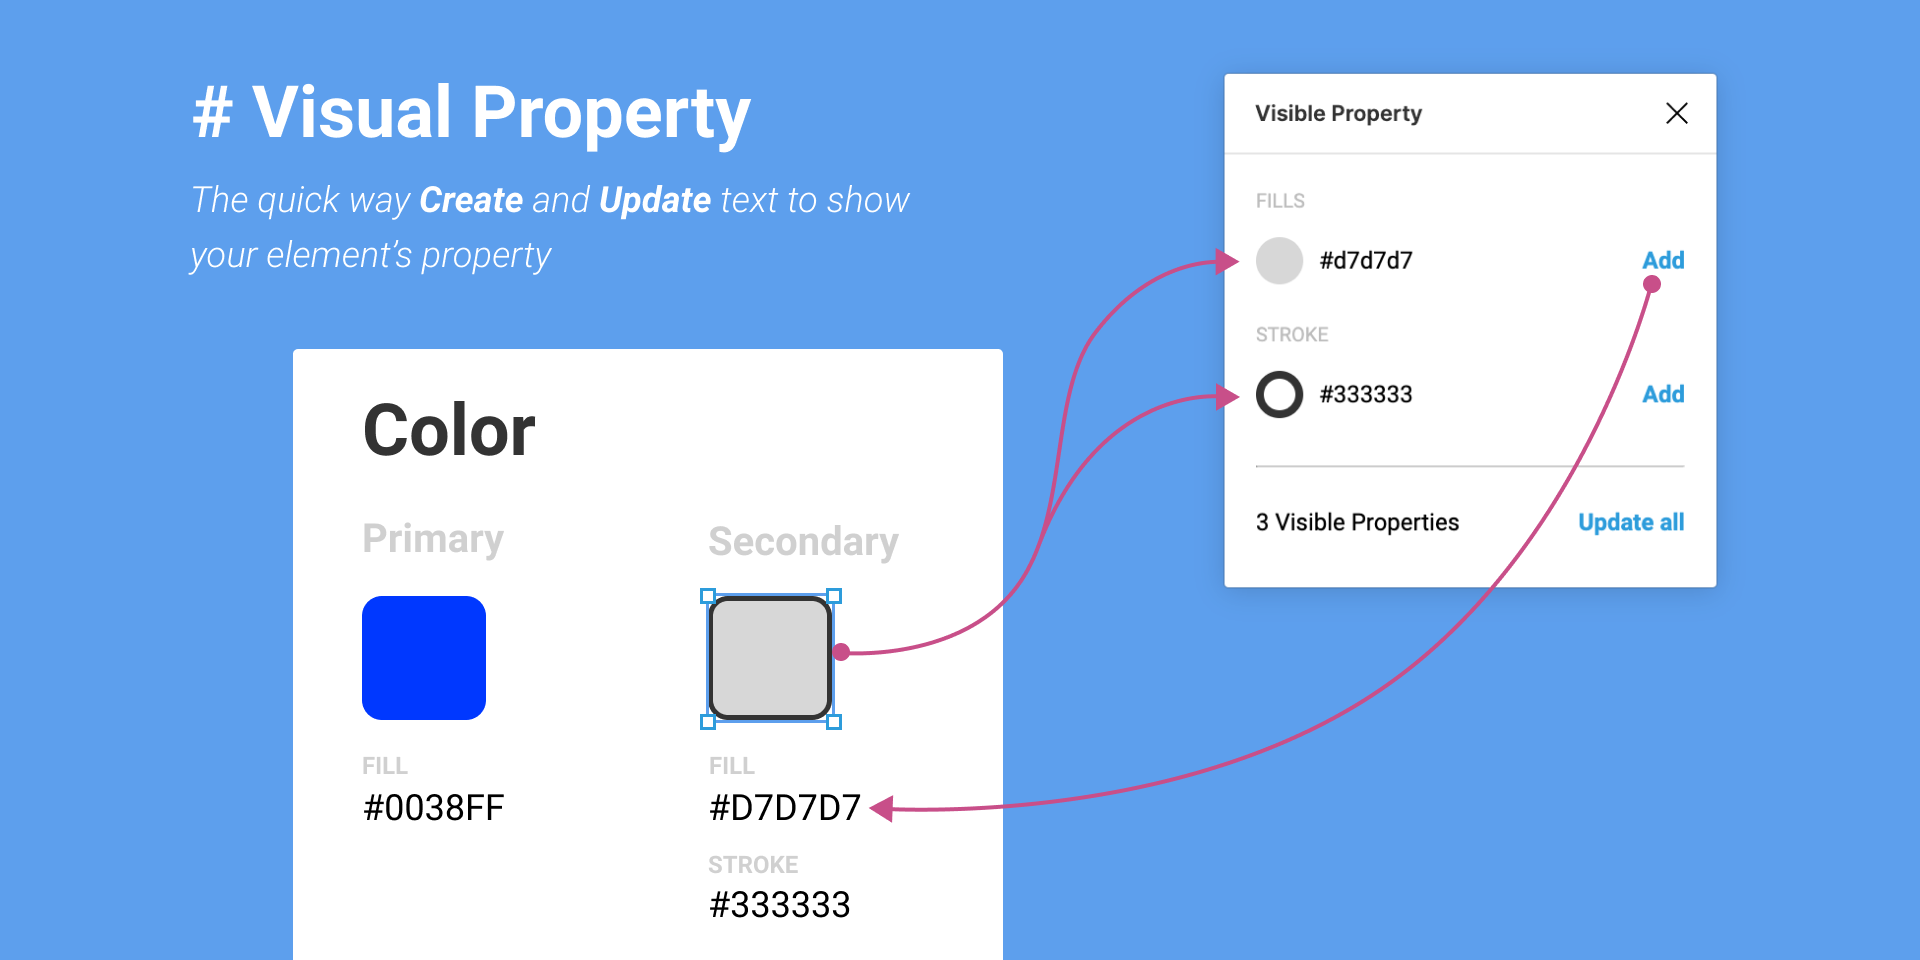
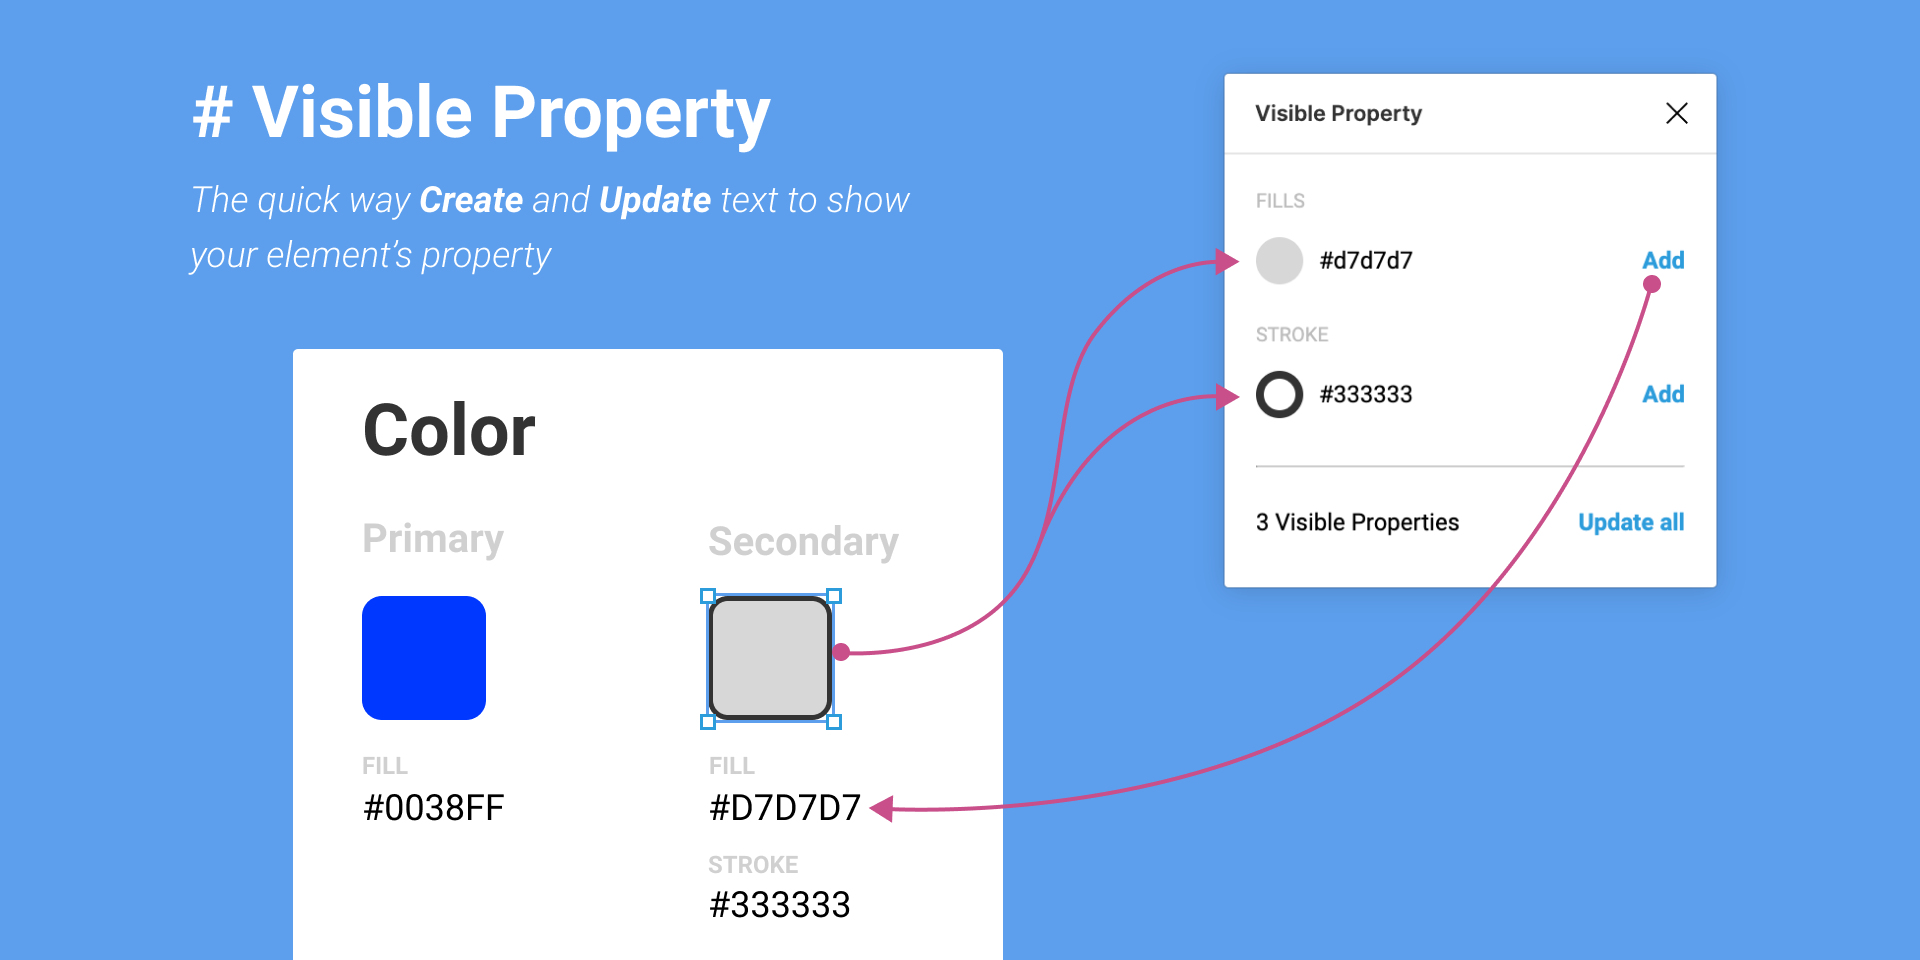
edit wrong word in picture

Changed region(s): [[0.1875, 0.0625, 0.4062, 0.1562]]

diff --git a/code.ts b/code.ts
@@ -15,11 +15,11 @@ function firstSelectedNode():RectangleNode {
 function colorNumberToHex(color:number):string {
   var hex = Math.round(color * 255).toString(16);
   return hex.length == 1 ? "0" + hex : hex;
-};
+}
 
 function rgbToHex(r:number, g:number, b:number):string {
   return "#" + colorNumberToHex(r) + colorNumberToHex(g) + colorNumberToHex(b)
-};
+}
 
 function colorToHex(color:any):string{
   return rgbToHex(color["r"], color["g"], color["b"]);
@@ -45,6 +45,24 @@ async function addTextNearSelected(text:string, name:string){
   node.parent.appendChild(textNode);
 }
 
+function getColorByType(nodeId:string, type:string):string {
+  let selectedNode = <RectangleNode> figma.getNodeById(nodeId); 
+  if(selectedNode) {
+    if(selectedNode[type][0]) {
+      const hexColor:string = colorToHex(selectedNode[type][0]["color"]);
+      return hexColor.toUpperCase();
+    }
+  }
+}
+
+function getFillsColor(nodeId:string):string {
+  return getColorByType(nodeId, "fills");
+}
+
+function getStrokesColor(nodeId:string):string {
+  return getColorByType(nodeId, "strokes");
+}
+
 function updateUI():void {
   let message = {};
 
@@ -67,24 +85,6 @@ function updateUI():void {
   }
   
   figma.ui.postMessage(message);
-}
-
-function getColorByType(nodeId:string, type:string):string {
-  let selectedNode = <RectangleNode> figma.getNodeById(nodeId); 
-  if(selectedNode) {
-    if(selectedNode[type][0]) {
-      const hexColor:string = colorToHex(selectedNode[type][0]["color"]);
-      return hexColor.toUpperCase();
-    }
-  }
-}
-
-function getFillsColor(nodeId:string):string {
-  return getColorByType(nodeId, "fills");
-}
-
-function getStrokesColor(nodeId:string):string {
-  return getColorByType(nodeId, "strokes");
 }
 
 function updateAll() {

diff --git a/code.js b/code.js
@@ -22,11 +22,9 @@ function colorNumberToHex(color) {
     var hex = Math.round(color * 255).toString(16);
     return hex.length == 1 ? "0" + hex : hex;
 }
-;
 function rgbToHex(r, g, b) {
     return "#" + colorNumberToHex(r) + colorNumberToHex(g) + colorNumberToHex(b);
 }
-;
 function colorToHex(color) {
     return rgbToHex(color["r"], color["g"], color["b"]);
 }
@@ -51,6 +49,21 @@ function addTextNearSelected(text, name) {
         node.parent.appendChild(textNode);
     });
 }
+function getColorByType(nodeId, type) {
+    let selectedNode = figma.getNodeById(nodeId);
+    if (selectedNode) {
+        if (selectedNode[type][0]) {
+            const hexColor = colorToHex(selectedNode[type][0]["color"]);
+            return hexColor.toUpperCase();
+        }
+    }
+}
+function getFillsColor(nodeId) {
+    return getColorByType(nodeId, "fills");
+}
+function getStrokesColor(nodeId) {
+    return getColorByType(nodeId, "strokes");
+}
 function updateUI() {
     let message = {};
     const countText = propertyText().length;
@@ -70,21 +83,6 @@ function updateUI() {
         message["isSelected"] = false;
     }
     figma.ui.postMessage(message);
-}
-function getColorByType(nodeId, type) {
-    let selectedNode = figma.getNodeById(nodeId);
-    if (selectedNode) {
-        if (selectedNode[type][0]) {
-            const hexColor = colorToHex(selectedNode[type][0]["color"]);
-            return hexColor.toUpperCase();
-        }
-    }
-}
-function getFillsColor(nodeId) {
-    return getColorByType(nodeId, "fills");
-}
-function getStrokesColor(nodeId) {
-    return getColorByType(nodeId, "strokes");
 }
 function updateAll() {
     const nodes = figma.currentPage.findAll(node => node.type === "TEXT" && node.name.charAt(0) === "#");
